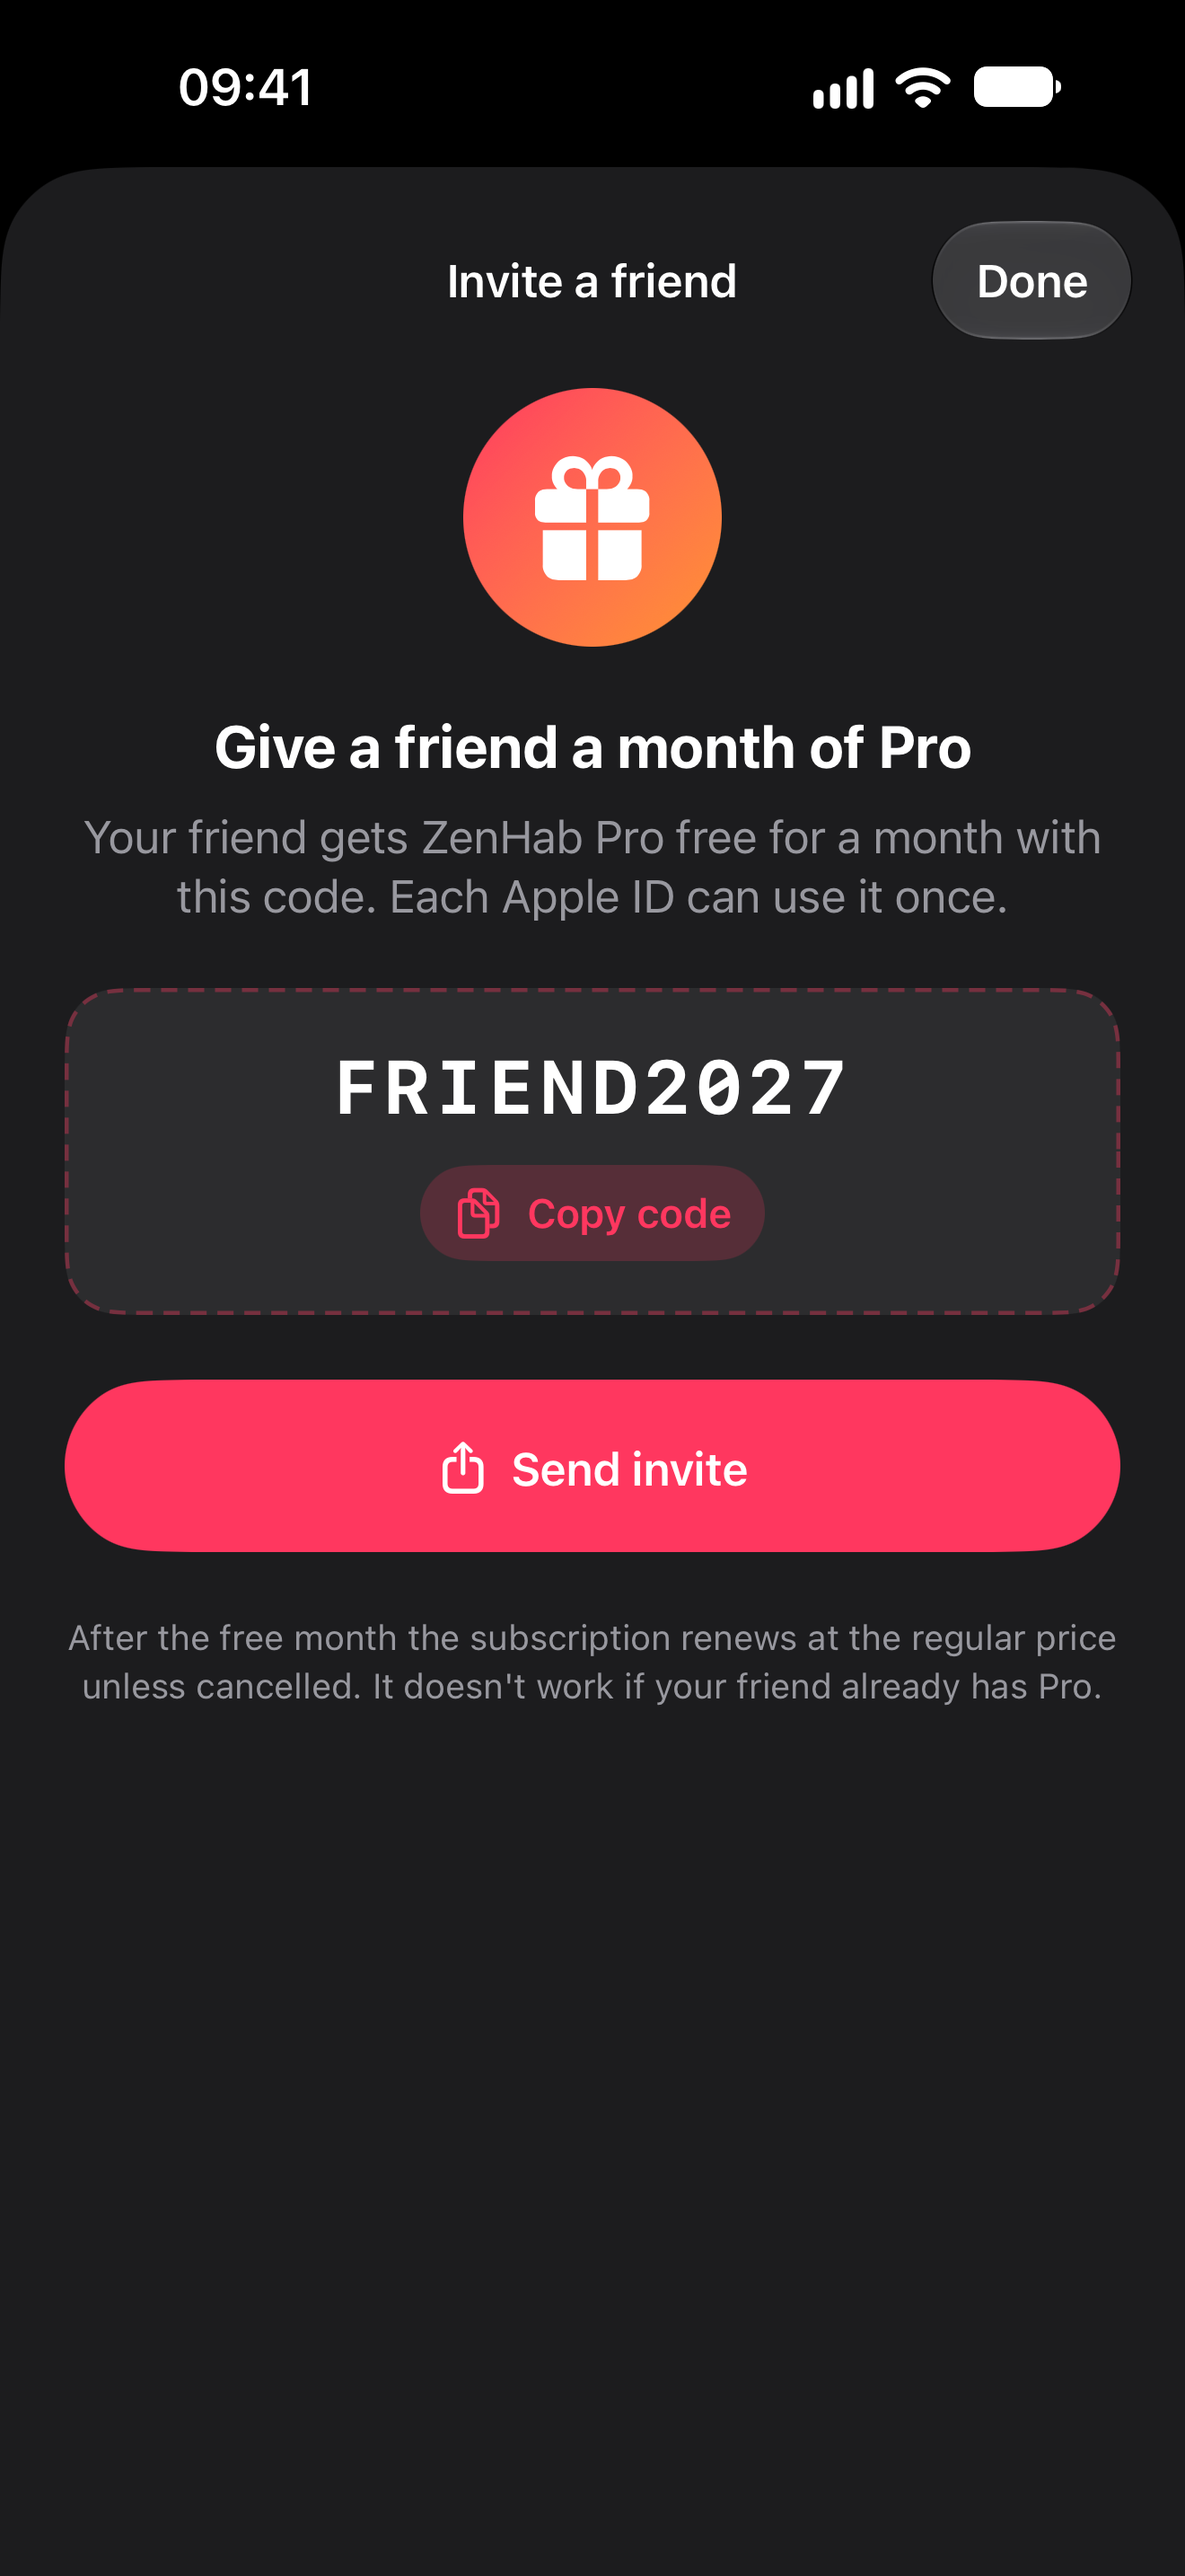
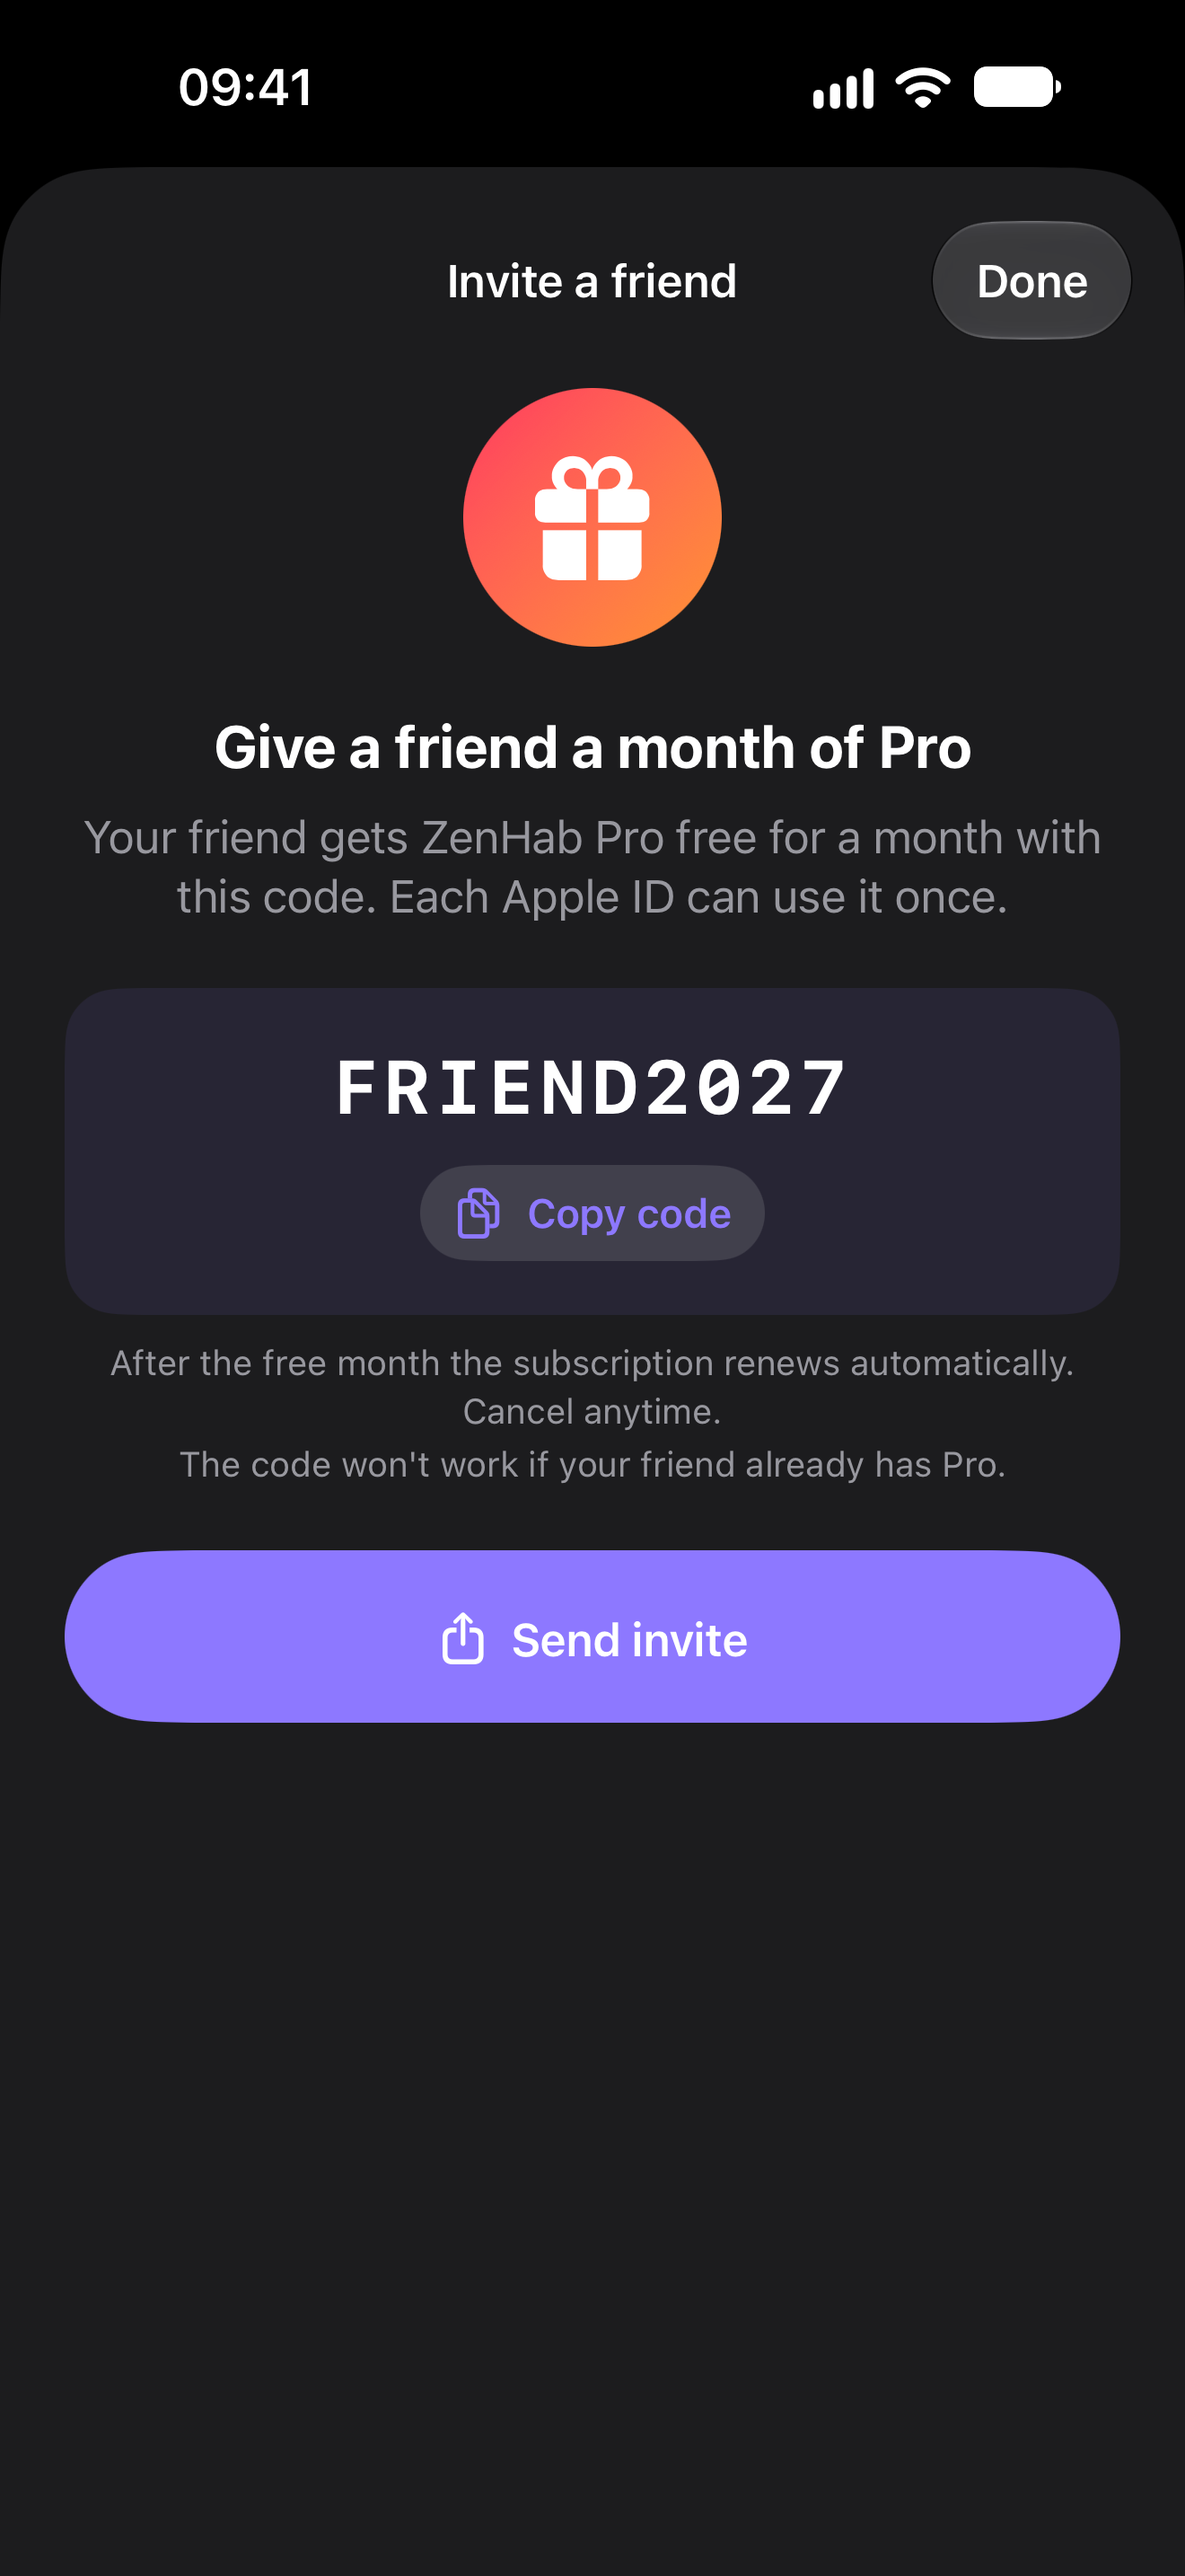
KAN-228: design review fixes — purple accent, renewal terms under the code, shorter button at XL, copy

Changed region(s): [[0.0311, 0.5275, 0.9629, 0.6827], [0.3727, 0.4655, 0.528, 0.4965], [0.5591, 0.4655, 0.6212, 0.4965]]

diff --git a/Habits/Views/Settings/InviteFriendView.swift b/Habits/Views/Settings/InviteFriendView.swift
@@ -34,9 +34,18 @@ struct InviteFriendRow: View {
 }
 
 /// Шит с кодом и кнопкой «Отправить приглашение».
+/// Условия продления стоят сразу под кодом, до кнопки: друг видит их до того, как ему отправят ссылку (3.1.2).
 struct InviteFriendView: View {
     @Environment(\.dismiss) private var dismiss
+    @Environment(\.dynamicTypeSize) private var typeSize
+    @State private var shop = ProStore.shared
     @State private var copied = false
+
+    /// Цена месячной подписки, на которую действует код, например «149 ₽ в месяц».
+    private var monthlyPrice: String? {
+        shop.products.first(where: { $0.id == ProStore.monthlyID })
+            .map { String(localized: "\($0.displayPrice) / month") }
+    }
 
     var body: some View {
         NavigationStack {
@@ -61,22 +70,26 @@ struct InviteFriendView: View {
                             .multilineTextAlignment(.center)
                     }
 
-                    codeCard
+                    VStack(spacing: 10) {
+                        codeCard
+                        terms
+                    }
 
                     ShareLink(item: FriendInvite.redeemURL,
                               message: Text("I track my habits with ZenHab. Try it: a month of Pro is free with this link: \(FriendInvite.redeemURL.absoluteString)")) {
-                        Label("Send invite", systemImage: "square.and.arrow.up")
-                            .font(.headline)
-                            .frame(maxWidth: .infinity, minHeight: 50)
+                        // При крупном шрифте без иконки: иначе подпись переносится, а иконка висит у первой строки.
+                        Group {
+                            if typeSize.isAccessibilitySize {
+                                Text("Send invite")
+                            } else {
+                                Label("Send invite", systemImage: "square.and.arrow.up")
+                            }
+                        }
+                        .font(.headline)
+                        .frame(maxWidth: .infinity, minHeight: 50)
                     }
                     .buttonStyle(.borderedProminent)
-                    .tint(.pink)
                     .accessibilityIdentifier("invite.send")
-
-                    Text("After the free month the subscription renews at the regular price unless cancelled. It doesn't work if your friend already has Pro.")
-                        .font(.footnote)
-                        .foregroundStyle(.secondary)
-                        .multilineTextAlignment(.center)
                 }
                 .padding(.horizontal, 24)
                 .padding(.bottom, 24)
@@ -88,7 +101,23 @@ struct InviteFriendView: View {
                     Button("Done") { dismiss() }
                 }
             }
+            .task { await shop.loadProducts() }
         }
+    }
+
+    private var terms: some View {
+        VStack(spacing: 4) {
+            if let monthlyPrice {
+                Text("After the free month: \(monthlyPrice). Cancel anytime.")
+            } else {
+                Text("After the free month the subscription renews automatically. Cancel anytime.")
+            }
+            Text("The code won't work if your friend already has Pro.")
+        }
+        .font(.footnote)
+        .foregroundStyle(.secondary)
+        .multilineTextAlignment(.center)
+        .accessibilityIdentifier("invite.terms")
     }
 
     private var codeCard: some View {
@@ -96,6 +125,8 @@ struct InviteFriendView: View {
             Text(FriendInvite.code)
                 .font(.system(.title, design: .monospaced).weight(.bold))
                 .tracking(2)
+                .minimumScaleFactor(0.6)
+                .lineLimit(1)
                 .textSelection(.enabled)
             Button {
                 UIPasteboard.general.string = FriendInvite.code
@@ -106,13 +137,10 @@ struct InviteFriendView: View {
                     .font(.subheadline.weight(.semibold))
             }
             .buttonStyle(.bordered)
-            .tint(.pink)
             .accessibilityIdentifier("invite.copy")
         }
         .frame(maxWidth: .infinity)
         .padding(.vertical, 20)
-        .background(Color(.secondarySystemGroupedBackground), in: RoundedRectangle(cornerRadius: 20, style: .continuous))
-        .overlay(RoundedRectangle(cornerRadius: 20, style: .continuous)
-            .strokeBorder(Color.pink.opacity(0.35), style: StrokeStyle(lineWidth: 1.5, dash: [6, 4])))
+        .background(Color.accentColor.opacity(0.1), in: RoundedRectangle(cornerRadius: 20, style: .continuous))
     }
 }
